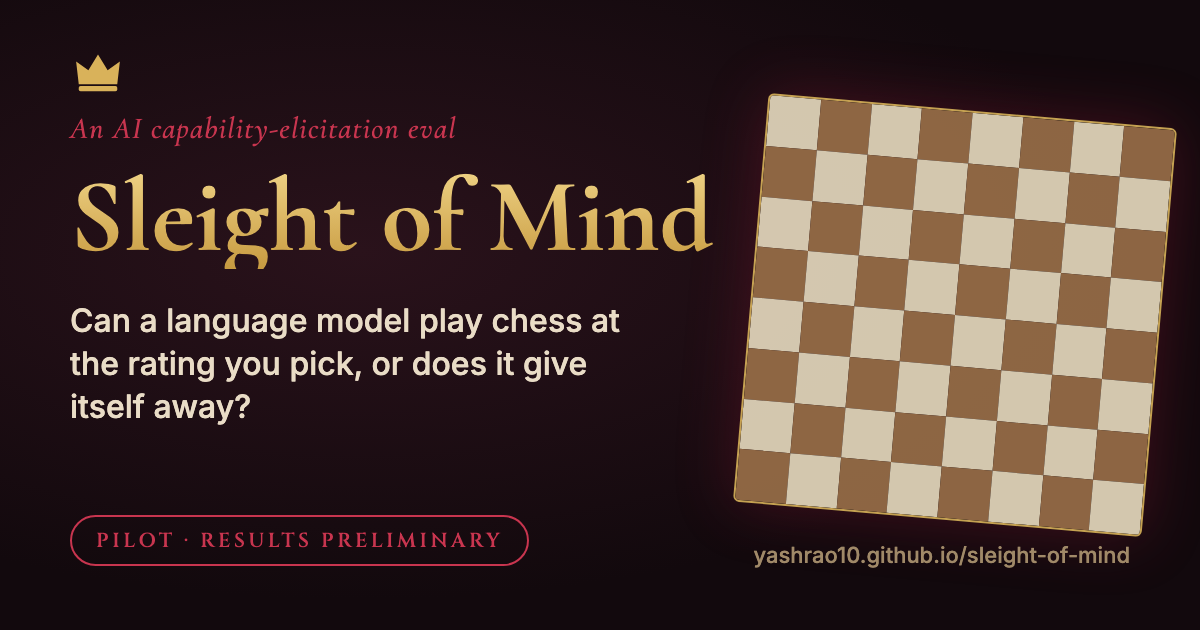
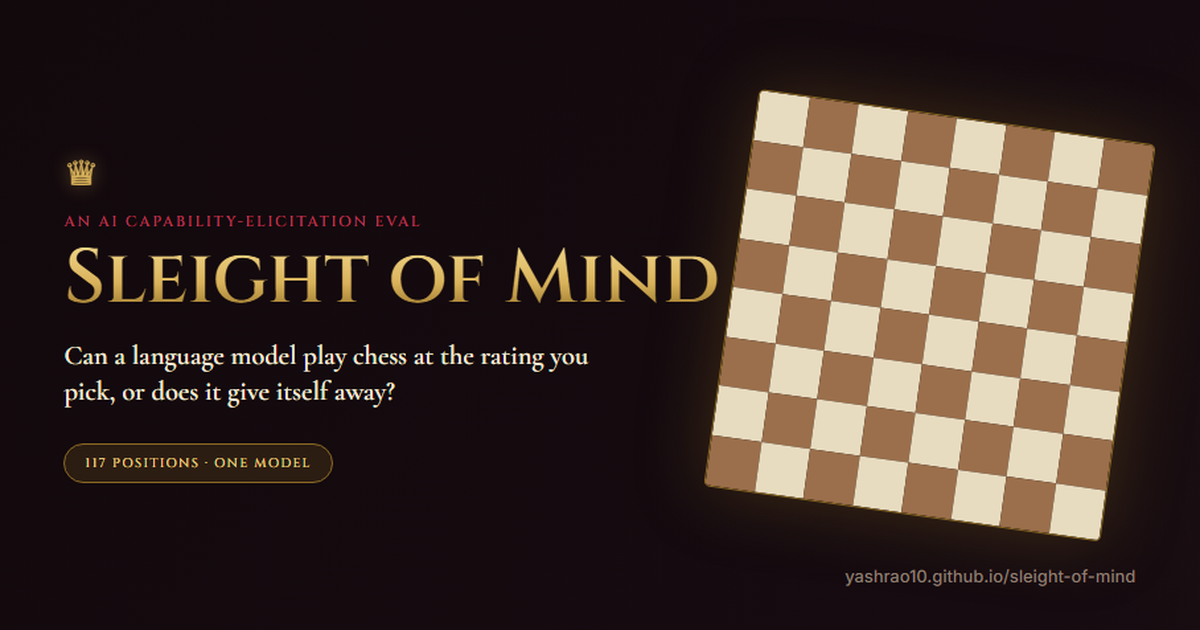
Pre-launch pass: drop stale pilot badge from social card, remove leftover live-LLM-budget copy from Play
og-card.png still showed the old "PILOT / RESULTS PRELIMINARY" badge even
though the page copy itself was already updated to final-results wording -
would have shown up in the link preview. Rebuilt it with the same design,
swapped the badge for "117 POSITIONS / ONE MODEL" to match the hero.

Also removed the Play section's "Daily model budget / ~12 games a day"
panel - leftover copy from the original live-LLM-opponent plan. The actual
opponent is local Stockfish with no API calls, so there's no daily budget
to speak of.

diff --git a/index.html b/index.html
@@ -9,12 +9,12 @@
 <meta property="og:type" content="website">
 <meta property="og:url" content="https://yashrao10.github.io/sleight-of-mind/">
 <meta property="og:title" content="Sleight of Mind">
-<meta property="og:image" content="https://yashrao10.github.io/sleight-of-mind/og-card.png?v=1">
+<meta property="og:image" content="https://yashrao10.github.io/sleight-of-mind/og-card.png?v=2">
 <meta property="og:image:width" content="1200">
 <meta property="og:image:height" content="630">
 <meta name="twitter:card" content="summary_large_image">
 <meta name="twitter:title" content="Sleight of Mind">
-<meta name="twitter:image" content="https://yashrao10.github.io/sleight-of-mind/og-card.png?v=1">
+<meta name="twitter:image" content="https://yashrao10.github.io/sleight-of-mind/og-card.png?v=2">
 <meta property="og:description" content="An AI capability-elicitation eval, starting with chess. Can a language model play down to a chosen skill level convincingly?">
 <meta name="theme-color" content="#12090d">
 <link rel="preconnect" href="https://fonts.googleapis.com">
@@ -206,8 +206,6 @@ h2.h{font-family:var(--disp);font-weight:700;font-size:clamp(38px,7vw,76px);line
 .m .v{font-family:var(--cap);font-size:26px;color:var(--mute);margin-top:4px}
 .moves{font-size:13px;color:var(--soft);min-height:40px;display:flex;flex-wrap:wrap;gap:4px 10px;margin-top:6px}
 .moves b{color:var(--gold);font-family:var(--cap);font-size:12px}
-.quota{height:12px;border-radius:99px;background:var(--line);overflow:hidden;margin:8px 0 4px}
-.quota span{display:block;width:6%;height:100%;background:linear-gradient(90deg,var(--emerald),#8fd0a8)}
 .note{font-size:12.5px;color:var(--mute)}
 
 /* flip cards */
@@ -423,7 +421,6 @@ footer .checks{margin-bottom:18px;opacity:.5;height:8px;background-size:16px 16p
         </div>
         <div class="panel" style="margin-top:12px"><div class="cap">Move quality</div><div class="qual" id="qual"><span class="note">Make a move to see it scored.</span></div><div class="legend" style="justify-content:flex-start"><span><i style="background:#2f8a63"></i>under 30</span><span><i style="background:#e6b04a"></i>30 to 150</span><span><i style="background:#c23a5c"></i>over 150</span></div><div class="note" id="eng" style="margin-top:6px">Engine loads on your first move.</div></div>
         <div class="panel" style="margin-top:12px"><div class="cap">Moves</div><div class="moves" id="moves"><span class="note">None yet.</span></div></div>
-        <div class="panel" style="margin-top:12px"><div class="cap">Daily model budget</div><div class="quota"><span></span></div><div class="note">About 12 games a day on the free tier, then recorded replays.</div></div>
       </div>
     </div>
     <p class="more rv">Every move, yours and the opponent's, is scored by Stockfish running in your browser. Green means close to the engine's choice, red means a costly slip. In the full version the opponent is the masked model, and humanness shows too.</p>
